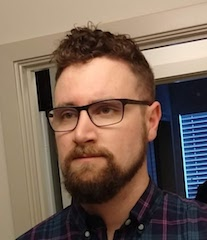
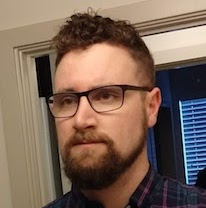
Updated styling and edited bios for About Us page

diff --git a/about.html b/about.html
@@ -10,6 +10,7 @@
 
   <!-- styles -->
   <link href="assets/css/bootstrap.css" rel="stylesheet">
+  <link href="assets/css/about.css" rel="stylesheet">
   <link href="assets/css/bootstrap-responsive.css" rel="stylesheet">
   <link href="assets/css/docs.css" rel="stylesheet">
   <link href="assets/js/google-code-prettify/prettify.css" rel="stylesheet">
@@ -106,60 +107,64 @@
       <div class="row">
         <ul class="thumbnails">
           <li class="span4">
-            <div class="thumbnail">
-              <img src="assets/img/us/amber-organizer-pic.jpg" alt="">
-              <h3>Amber Milavec</h3>
-              <p class=lead>Creator and Chief Organizer</p>
-              <p>Amber organized and ran her first hackathon in February 2015
-                called Hack Like a Girl with the desire to create a unique space
+            <div class="about-us-content">
+              <img src="assets/img/us/amber-organizer-pic.jpg" class="img-circular" alt="">
+              <h3 class="about-us-name">Amber Milavec</h3>
+              <h3 class="about-us-title">Creator and Chief Organizer</h3>
+              <p class="about-us-bio">In February 2015, Amber organized and ran her first hackathon, Hack Like a Girl,
+                with the desire to create a unique space
                 for women and friends to share and learn technology together.
-                Later that same year, she partnered with Puppet to create what
+                Later that year, she partnered with Puppet to create what
                 is now known as the We Code Hackathon for women and friends.
               </p>
-              <p>Her day job is as Principal Technical Architect at Nike digital
+              <p>When not organizing hackathons, Amber works as a Principal Technical Architect in Nike Digital
               Engineering.</p>
             </div>
           </li>
           <li class="span4">
-            <div class="thumbnail">
-              <img src="assets/img/us/lauren-organizer-pic.jpeg" alt="">
-              <h3>Lauren English</h3>
-              <h4>Senior Operations Manager</h4>
-              <p>Operational Awesomeness for the Product Engineering Organization
-                at Puppet. Three year WeCode Hackathon Alumni. Spirit sister:
-                Marie Kondo. Loves: animals, mountains, coding, humans, textiles,
-                food. Forbidden love: all of the cheese.</p>
+            <div class="about-us-content">
+              <img src="assets/img/us/lauren-organizer-pic.jpeg" class="img-circular" alt="">
+              <h3 class="about-us-name">Lauren English</h3>
+              <h3 class="about-us-title">Senior Operations Manager</h3>
+              <p class="about-us-bio">At Puppet, Lauren is a part of Operational Awesomeness for the Product Engineering Organization,
+                in addition to being a three year WeCode Hackathon Alumni. Her spirit sister is Marie Kondo, an organizing consultant
+                and star of the recent Netflix series <i>Tidying up with Marie Kondo</i>.
+                Lauren loves animals, mountains, coding, humans, textiles,
+                and food. Her forbidden love: all of the cheese.</p>
             </div>
           </li>
           <li class="span4">
-            <div class="thumbnail">
-              <img src="assets/img/us/tiffany-organizer-pic.jpg" alt="">
-              <h3>Tiffany Longworth</h3>
-              <h4>Non-Profit Wrangler</h4>
-              <p>Tiffany Longworth is the non-profit wrangler for WeCode and a
+            <div class="about-us-content">
+              <img src="assets/img/us/tiffany-organizer-pic.jpg" class="img-circular" alt="">
+              <h3 class="about-us-name">Tiffany Longworth</h3>
+              <h3 class="about-us-title">Non-Profit Wrangler</h3>
+              <p class="about-us-bio">Tiffany is the non-profit wrangler for WeCode and a
                 Site Reliability Engineer at Zapproved. She has launched
                 successful projects large and small, but has also worked on
-                projects that were spectacular failures! She likes using her
-                background as a Marine, her training as an English teacher,
+                ones that were spectacular failures! In her work, Tiffany employs her
+                background as a Marine, her training as an English teacher, the principles of
                 automation, and cat gifs as much as possible.</p>
             </div>
           </li>
         </ul>
         <ul class="thumbnails">
           <li class="span4">
-            <div class="thumbnail">
-              <img src="assets/img/us/eric-organizer-pic.jpeg" alt="">
-              <h3>Eric Putnam</h3>
-              <h4>Volunteer Coordinator, Software Engineer at Puppet, WeCode Hackathon Alumni</h4>
-              <p>Eric has been an engineer at Puppet for 2+ years and is excited to be part of an event that aims to support the voices and skills of women and other marginalized groups in technology! </p>
+            <div class="about-us-content">
+              <img src="assets/img/us/eric-organizer-pic.jpeg" class="img-circular" alt="">
+              <h3 class="about-us-name">Eric Putnam</h3>
+              <h3 class="about-us-title">Volunteer Coordinator</h3>
+              <p class="about-us-bio">Eric has been a software engineer at Puppet for over two years
+                  and is a WeCode Hackathon Alumni. He is excited to be part of
+                  an event that aims to support the voices and skills of women
+                  and other marginalized groups in technology. </p>
             </div>
           </li>
           <li class="span4">
-            <div class="thumbnail">
-              <img src="assets/img/us/organizer-pic.jpeg" alt="">
-              <h3>Michelle</h3>
-              <h4>Event Coordinator</h4>
-              <p></p>
+            <div class="about-us-content">
+              <img src="assets/img/us/organizer-pic.jpeg" class="img-circular" alt="">
+              <h3 class="about-us-name">Michelle</h3>
+              <h3 class="about-us-title">Event Coordinator</h3>
+              <p class="about-us-bio"></p>
             </div>
           </li>
         </ul>

diff --git a/assets/css/about.css b/assets/css/about.css
@@ -1,0 +1,42 @@
+
+/* ==== overwrite bootstrap standard ==== */
+@import url('overwrite.css');
+@import url('boxtile.css');
+/* ====================================== */
+
+.about-us-content {
+    align-content: center;
+    margin: 5px;
+    min-height: 200px;
+    min-width: 200px;
+    max-width: 300px;
+}
+
+.about-us-name {
+    font-size: 30px;
+    text-align: center;
+}
+
+.about-us-title {
+    font-size: 20px;
+    text-align: center;
+}
+
+.about-us-bio {
+    text-align: justify;
+}
+
+.img-circular{
+    width: 200px;
+    height: 200px;
+    background-size: cover;
+    display: block;
+    border-radius: 100px;
+    -webkit-border-radius: 100px;
+    -moz-border-radius: 100px;
+    margin-left: auto;
+    margin-right: auto;
+}
+
+
+

diff --git a/blog_left_sidebar.html b/blog_left_sidebar.html
@@ -80,7 +80,7 @@
                 <li class="dropdown danger">
                   <a href="#"><i class="icon-leaf icon-white"></i> Pages</a>
                   <ul class="dropdown-menu">
-                    <li><a href="about.html">About us</a></li>
+                    <li><a href="about.html">About Us</a></li>
                     <li><a href="services.html">Our services</a></li>
                     <li><a href="pricingtable.html">Pricing table</a></li>
                     <li><a href="faq.html">F.A.Q</a></li>

diff --git a/contact.html b/contact.html
@@ -77,7 +77,7 @@
                 <li class="dropdown danger">
                   <a href="#"><i class="icon-leaf icon-white"></i> Pages</a>
                   <ul class="dropdown-menu">
-                    <li><a href="about.html">About us</a></li>
+                    <li><a href="about.html">About Us</a></li>
                     <li><a href="services.html">Our services</a></li>
                     <li><a href="pricingtable.html">Pricing table</a></li>
                     <li><a href="faq.html">F.A.Q</a></li>

diff --git a/post_left_sidebar.html b/post_left_sidebar.html
@@ -78,7 +78,7 @@
                 <li class="dropdown danger">
                   <a href="#"><i class="icon-leaf icon-white"></i> Pages</a>
                   <ul class="dropdown-menu">
-                    <li><a href="about.html">About us</a></li>
+                    <li><a href="about.html">About Us</a></li>
                     <li><a href="services.html">Our services</a></li>
                     <li><a href="pricingtable.html">Pricing table</a></li>
                     <li><a href="faq.html">F.A.Q</a></li>

diff --git a/faq.html b/faq.html
@@ -57,7 +57,7 @@
               <li class="dropdown danger active">
                 <a href="#"><i class="icon-leaf icon-white"></i> Pages</a>
                 <ul class="dropdown-menu">
-                  <li><a href="about.html">About us</a></li>
+                  <li><a href="about.html">About Us</a></li>
                   <li><a href="faq.html">F.A.Q</a></li>
                 </ul>
               </li>

diff --git a/footer.html b/footer.html
@@ -5,7 +5,7 @@
     <div class="row">
       <div class="span4">
         <div class="widget">
-          <h4>About us</h4>
+          <h4>About Us</h4>
           <address>
         <strong>We Code</strong><br>
         <!-- 445 Mypark Ave, Suite 800<br>
